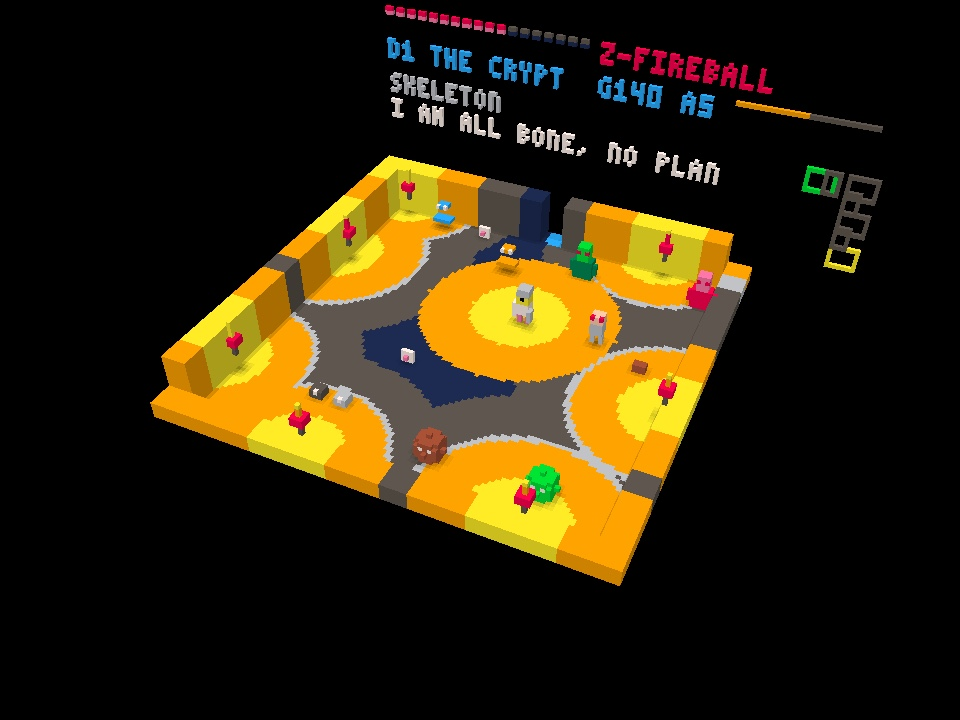
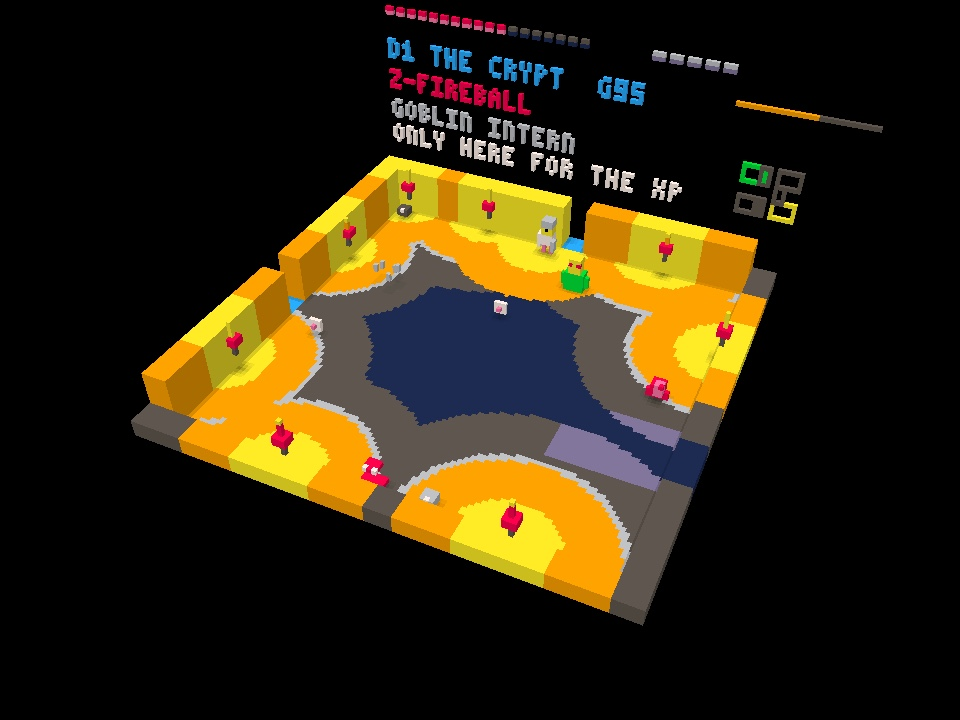
Adjusted difficulty and added light effect toggle.

diff --git a/docs/VOXBOX_ROGUE_PLAN.md b/docs/VOXBOX_ROGUE_PLAN.md
@@ -114,13 +114,17 @@ jump as you walk between rooms.
 ### 1.2 Cutaway walls
 
 Only the two **far** walls (low y, low x) are drawn full height. The two near
-walls are drawn as a 2-voxel sill — enough to read as an edge, too low to
+walls are drawn as a 4-voxel sill — enough to read as an edge, too low to
 occlude anything. This is the standard isometric cutaway, and here it is not a
 stylistic choice but a requirement of the camera.
 
-It has a happy consequence: **torches go on the far walls**, which are exactly
-the walls facing the camera. A torch on a near wall would have had its flame
-hidden by its own bracket.
+Torches go on **all four** walls, not just the far pair. The first version put
+them only on the far walls, reasoning that a near-wall torch would have its
+flame hidden by its own bracket — but the near walls are only a sill, so a
+flame mounted above sill height clears it and is perfectly visible. The
+occlusion rule that keeps *detail* off near faces does not apply to something
+standing proud of a low wall. Once rooms grew to fill the footprint, far-wall
+lighting alone left the near half of every room black.
 
 ### 1.3 Camera
 
@@ -144,6 +148,14 @@ font past comfortable reading.
 
 This is the heart of the look, and the part that has to be invented rather
 than switched on.
+
+### 2.0 Switching it off
+
+Torchlight toggles from the title screen with `z`, remembered in `cartdata`
+slot 2. Flat mode forces every cell to one level: the room is evenly lit, the
+pools disappear, and the light map collapses from ~590 run-length boxes to 3 —
+so it is a performance option as much as a legibility one. The Pot Helm's −2
+vision joke is inert while it is off, which is the honest cost.
 
 ### 2.1 The light map
 
@@ -301,9 +313,20 @@ how much you have to earn them:
 
 | Source | Amount | What it is for |
 |---|---|---|
-| Natural regen | +1 every 16 turns | slow enough that you cannot out-heal a fight — it only pays for *breaking off*, which is the decision it exists to create |
+| Natural regen, hunted | +1 every 14 turns | too slow to out-heal a fight, so it only pays for *breaking off* |
+| Natural regen, calm | +1 every 3 turns | once nothing in the node is awake. One rate cannot do both jobs: slow enough to matter in a fight makes walking somewhere quiet pure tedium, so leaving the fight switches rate |
 | Bread, healing draught | +6, +14 | the common drop; food is deliberately frequent in the loot table |
 | Reaching a new floor | +8, and +2 max | makes the stairs worth pushing for rather than something you fall down at 2 hp |
+
+**Armour is the other half of survival** and gets its own row of HUD pips beside
+health, because a number buried in a text line does not read as something worth
+going to look for. It subtracts from every hit, with a floor of 1 damage.
+
+That floor is why the hero starts with **zero** armour: a single point reduces
+every depth-1 monster to the minimum and makes the first floor harmless. The
+fix for dying on floor 1 was making armour *findable* there — every piece used
+to be gated behind `d >= 2`, so the one floor where you had none was also the
+only floor where none could drop.
 
 Max health rising with depth is also what keeps the numbers honest as monster
 damage scales, and the HUD pips show empty slots as well as full ones so both
@@ -636,6 +659,7 @@ three bundled carts do.
 | **4 light levels may band visibly** | Largely answered by the finer grid and Euclidean falloff (§2.1). Dithering the boundary is the next fix; §12 is the one after. |
 | **26-character dialogue** | A constraint on the writing, not a technical risk. One-liners are funnier anyway. |
 | **Scope** | This is much larger than the three existing carts (480–880 lines). Expect 2,000+ lines. The phase boundaries are all playable, so it can stop early and still be a game. |
+| **Difficulty drifting as content changes** | Real, and it bit once: growing rooms from 12x10 to 18x17 silently took `flr(area/55)` from 2 monsters to 5, all inside the aggro radius of one room. Density is now per *depth*, not per area. A scripted survival probe (40 naive runs that never retreat) is the regression test — it should sit near 2/40 deaths on floor 1. |
 
 **Resolved: corridors are rooms in their own right.** A corridor is a node in
 the dungeon graph exactly like a chamber — its own tile grid, its own torches,

diff --git a/README.md b/README.md
@@ -153,9 +153,15 @@ is +1 armour and −2 vision, which it implements by literally subtracting 2 fro
 every light level.
 
 Health comes back the way Rogue's did — slowly, with time — so retreating is a
-real option rather than a stay of execution. Bread and draughts heal properly,
-and reaching a new floor restores health and raises the ceiling, which is what
-makes the stairs worth pushing for.
+real option rather than a stay of execution. It regenerates at two rates: too
+slowly to out-heal a fight, and quickly once nothing in the room is still
+hunting you, because one rate cannot do both jobs without turning the retreat
+into a long walk. Bread and draughts heal properly, and reaching a new floor
+restores health and raises the ceiling.
+
+Armour is the second bar, and it subtracts from every hit. Torchlight can be
+switched off entirely from the title screen if you would rather see the whole
+room — which also collapses the light map from ~590 boxes to 3.
 
 **Corridors are nodes in their own right** — their own tile grid, torches,
 light map and monsters, drawn by exactly the same code. The only thing that
